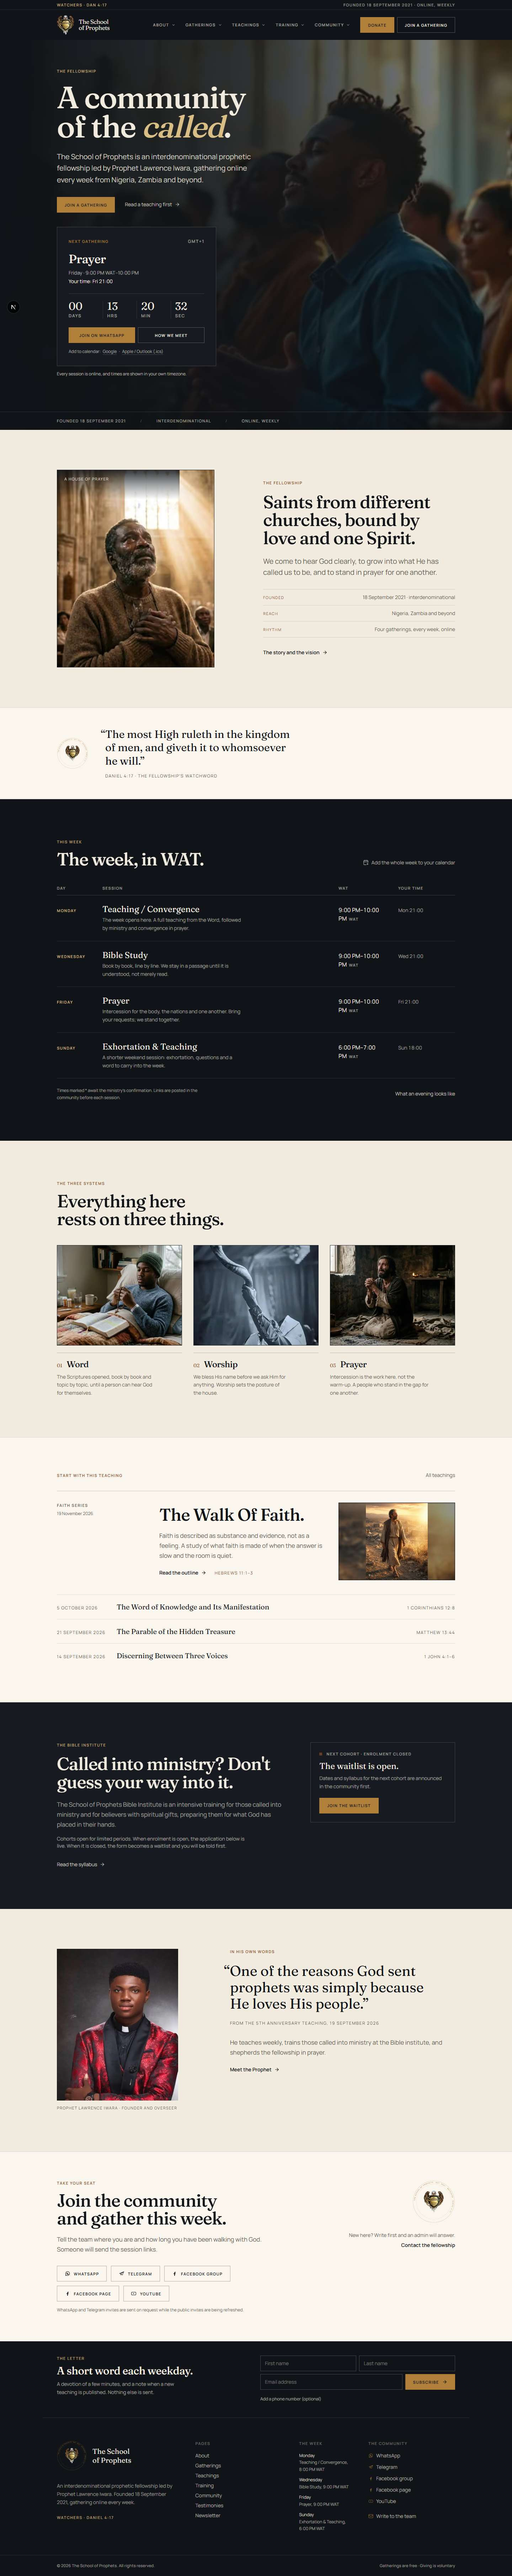
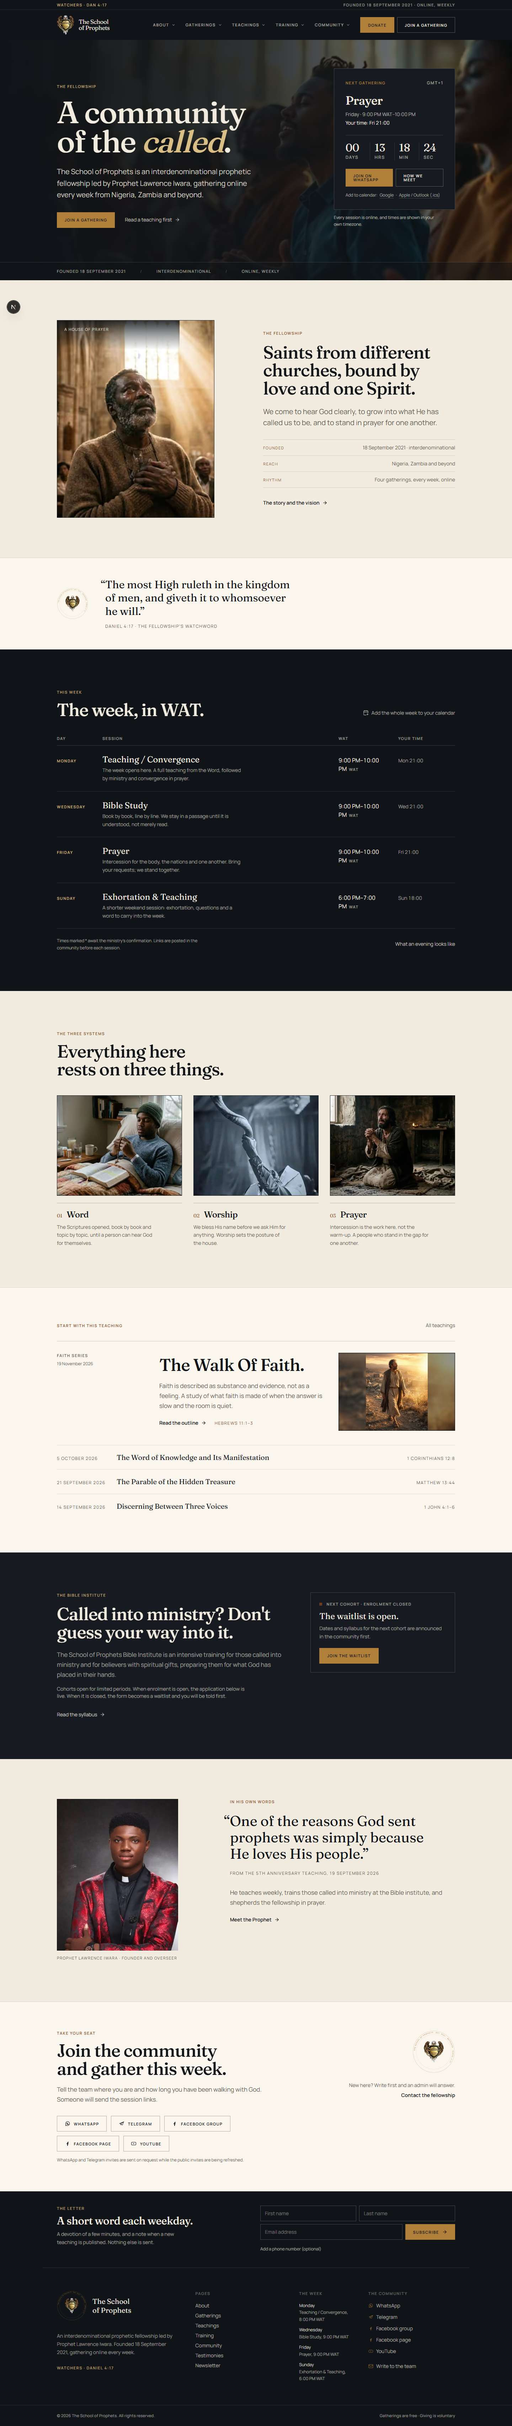
Put the next gathering back on the right of the hero
On desktop the card sits in its own column at the right of the
invitation again, with the photograph recentred so faces stay clear of
it; on phones it still follows the buttons.

🤖 Generated with Codebuff

diff --git a/src/app/page.tsx b/src/app/page.tsx
@@ -90,7 +90,7 @@ export default async function HomePage() {
           fill
           priority
           sizes="100vw"
-          className="object-cover object-[52%_38%]"
+          className="object-cover object-[64%_38%]"
         />
         <div aria-hidden="true" className="absolute inset-0 bg-ink/72 md:bg-ink/40" />
         <div
@@ -98,7 +98,7 @@ export default async function HomePage() {
           className="absolute inset-0 hidden bg-gradient-to-r from-ink via-ink/78 to-ink/5 md:block"
         />
 
-        <div className="wrap relative grid gap-10 pb-16 pt-14 md:pb-24 md:pt-20 lg:grid-cols-12">
+        <div className="wrap relative grid gap-10 pb-16 pt-14 md:pb-24 md:pt-20 lg:grid-cols-12 lg:items-end lg:gap-12">
           <div className="lg:col-span-7">
             <p className="label text-gold-soft/90">The fellowship</p>
 
@@ -126,13 +126,14 @@ export default async function HomePage() {
                 <ArrowRight aria-hidden="true" className="h-3.5 w-3.5" />
               </Link>
             </div>
+          </div>
 
-            <div className="mt-10 max-w-md">
-              <NextGathering sessions={schedule} joinHref={contact.whatsapp || undefined} />
-              <p className="mt-3 text-xs leading-relaxed text-parchment/70">
-                Every session is online, and times are shown in your own timezone.
-              </p>
-            </div>
+          {/* The next gathering sits to the right of the invitation on desktop. */}
+          <div className="max-w-md lg:col-span-4 lg:col-start-9">
+            <NextGathering sessions={schedule} joinHref={contact.whatsapp || undefined} />
+            <p className="mt-3 text-xs leading-relaxed text-parchment/70">
+              Every session is online, and times are shown in your own timezone.
+            </p>
           </div>
         </div>
 
